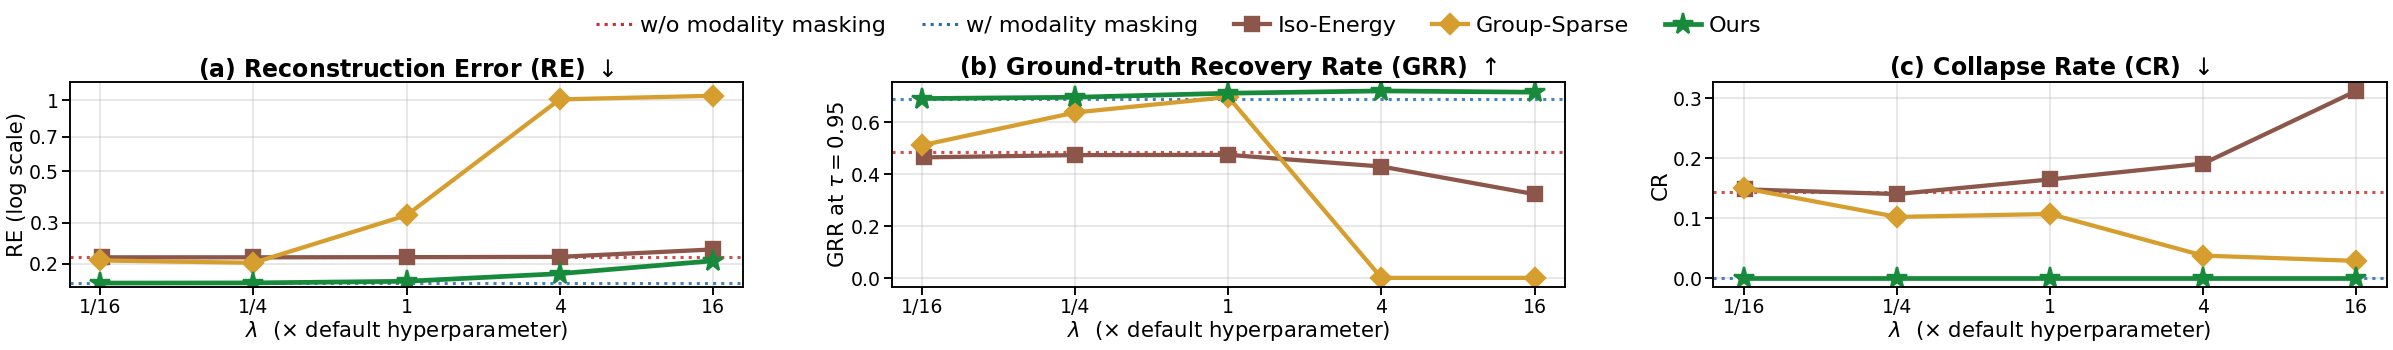
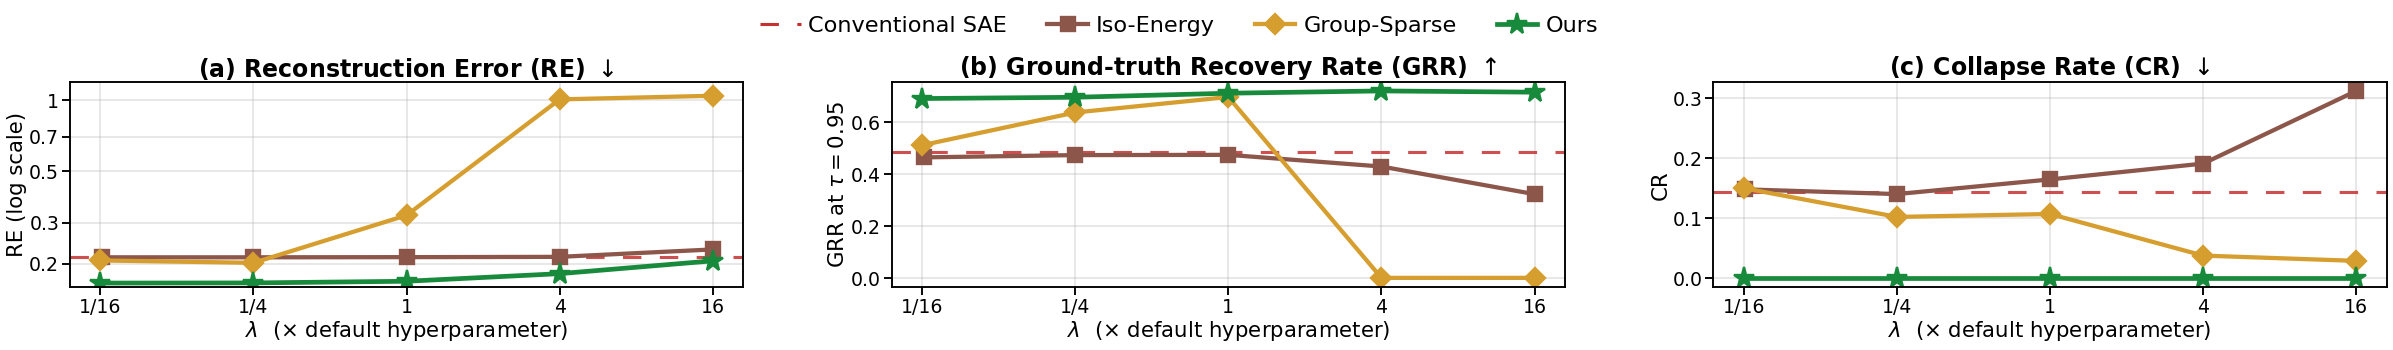
fig2: drop 2R baseline, rename 1R to Conventional SAE, looser dashes

diff --git a/scripts/plot_fig2_lambda_sweep.py b/scripts/plot_fig2_lambda_sweep.py
@@ -121,8 +121,7 @@ def make_fig2(root: str, out_path: str):
 
     fig, axes = plt.subplots(1, 3, figsize=(14.5, 2.16))
     for ax, (metric, ylab, title, ylim, ystep, ylog) in zip(axes, PANELS):
-        ax.axhline(v_1R[metric], color=C_1R, ls=":", lw=1.3, alpha=0.85)
-        ax.axhline(v_2R[metric], color=C_2R, ls=":", lw=1.3, alpha=0.85)
+        ax.axhline(v_1R[metric], color=C_1R, ls=(0, (6, 6)), lw=1.3, alpha=0.85)
         ax.plot([m for m, _ in ia_m],   [r[metric] for _, r in ia_m],   "-s", color=C_IA,   lw=1.8, ms=6)
         ax.plot([m for m, _ in gs_m],   [r[metric] for _, r in gs_m],   "-D", color=C_GS,   lw=1.8, ms=6)
         ax.plot([m for m, _ in ours_m], [r[metric] for _, r in ours_m], "-*", color=C_OURS, lw=2.0, ms=9)
@@ -157,8 +156,7 @@ def make_fig2(root: str, out_path: str):
         ax.tick_params(labelsize=8, pad=1)
 
     handles = [
-        Line2D([0], [0], color=C_1R,   ls=":",     lw=1.3, label="w/o modality masking"),
-        Line2D([0], [0], color=C_2R,   ls=":",     lw=1.3, label="w/ modality masking"),
+        Line2D([0], [0], color=C_1R,   ls=(0, (6, 6)), lw=1.3, label="Conventional SAE"),
         Line2D([0], [0], color=C_IA,   marker="s", lw=1.8, ms=6, label="Iso-Energy"),
         Line2D([0], [0], color=C_GS,   marker="D", lw=1.8, ms=6, label="Group-Sparse"),
         Line2D([0], [0], color=C_OURS, marker="*", lw=2.0, ms=9, label="Ours"),
@@ -166,8 +164,8 @@ def make_fig2(root: str, out_path: str):
     fig.legend(
         handles=handles, loc="upper center",
         bbox_to_anchor=(0.5, 1.005),
-        ncol=5, frameon=False, fontsize=9.5,
-        handlelength=1.6, columnspacing=1.6, handletextpad=0.35,
+        ncol=4, frameon=False, fontsize=9.5,
+        handlelength=1.8, columnspacing=1.8, handletextpad=0.35,
     )
     plt.subplots_adjust(top=0.77, bottom=0.21, left=0.05, right=0.99, wspace=0.22)
 
